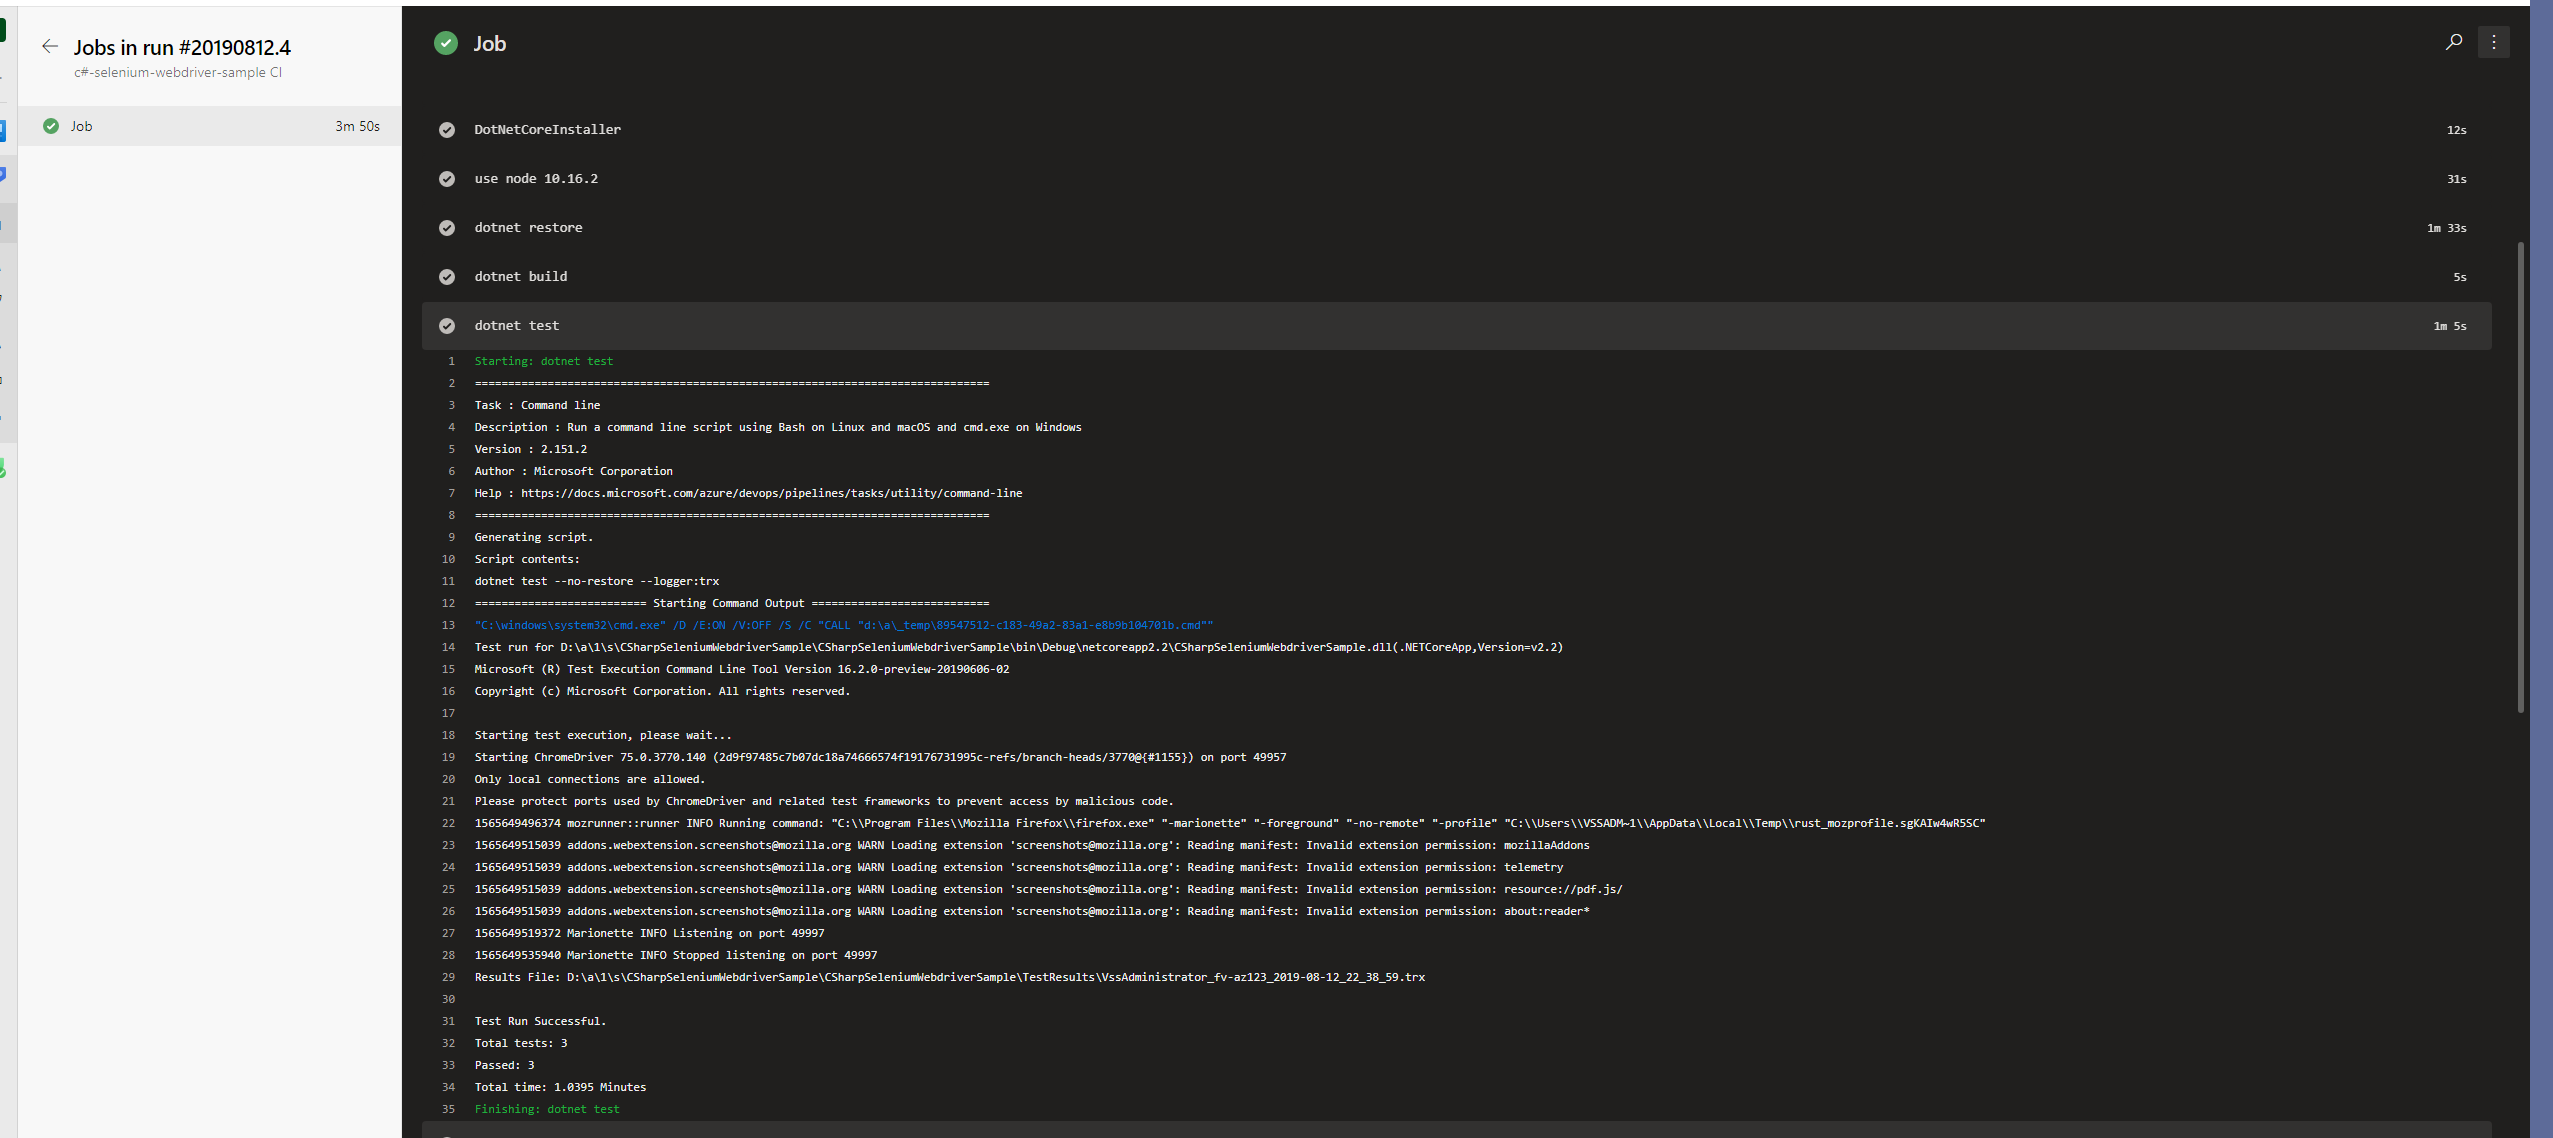
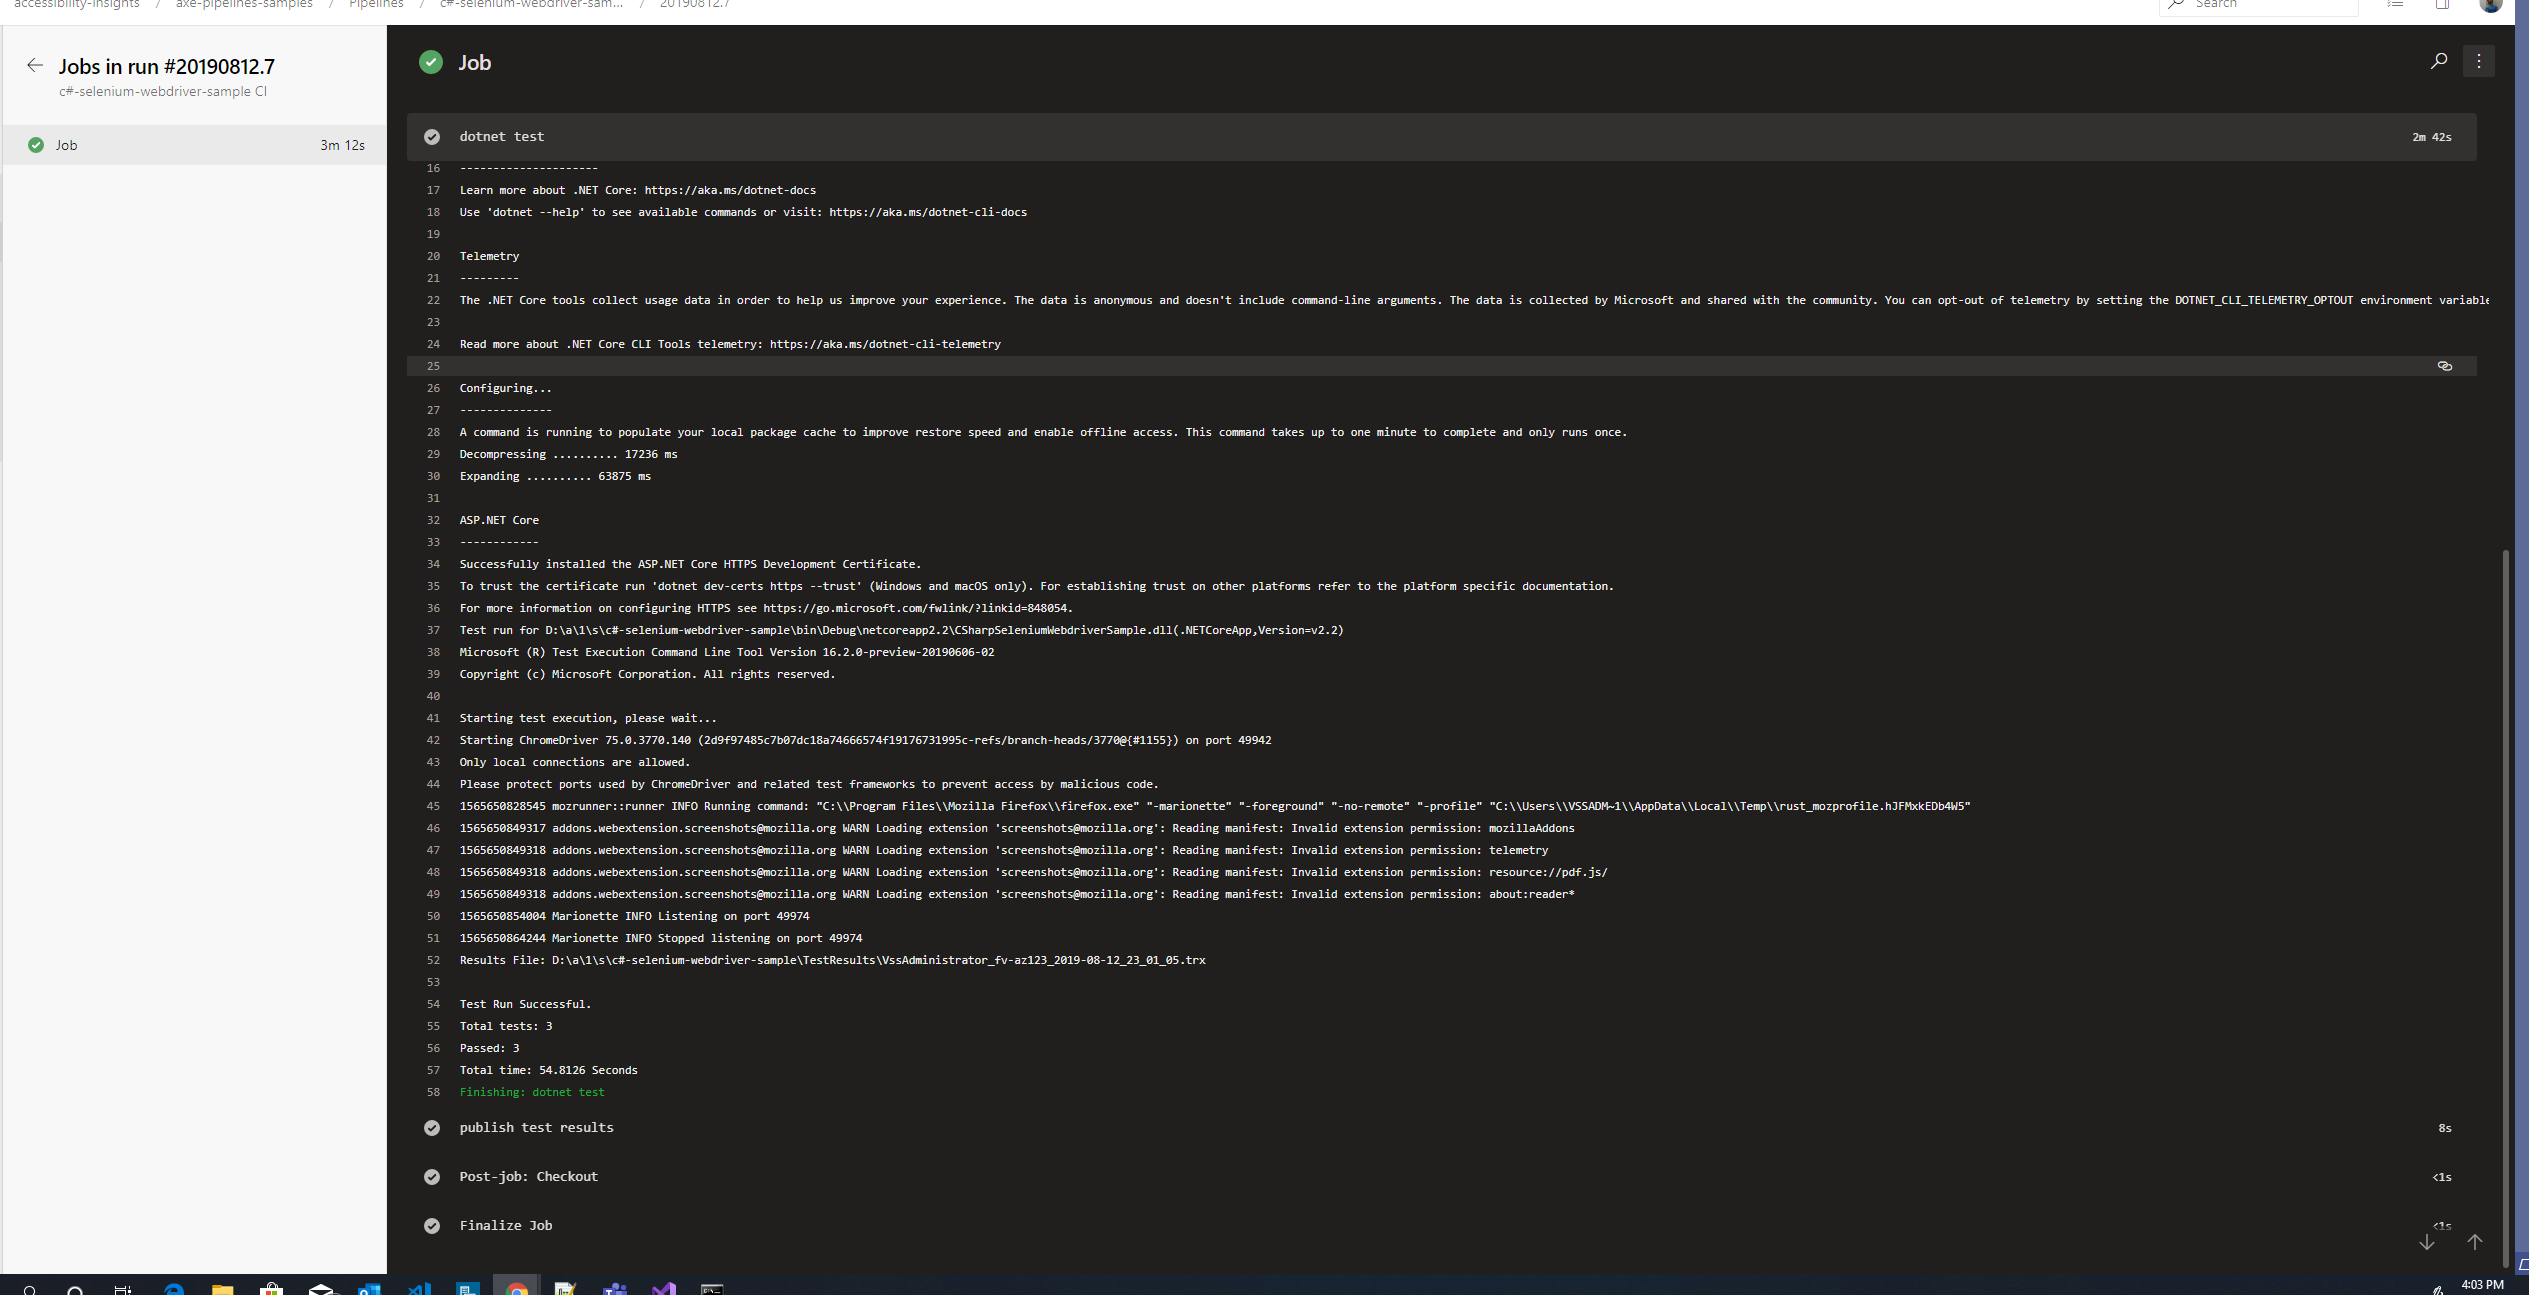
update screenshots

Changed region(s): [[0.0, 0.0, 1.0, 1.0], [0.0, 0.0923, 0.0312, 0.3998], [0.4998, 0.8304, 0.531, 0.8612]]

diff --git a/c#-selenium-webdriver-sample/README.md b/c#-selenium-webdriver-sample/README.md
@@ -31,11 +31,11 @@ Some good places to start reading are:
 -->
 The accessibility tests run as part of the `dotnet test` build step:
 
-[![Screenshot of "dotnet test" build logs in sample build](./Resources/screenshot-logs-tab.png)](https://dev.azure.com/accessibility-insights/axe-pipelines-samples/_build/results?buildId=2324&view=logs&j=12f1170f-54f2-53f3-20dd-22fc7dff55f9)
+[![Screenshot of "dotnet test" build logs in sample build](./Resources/screenshot-logs-tab.png)](https://dev.azure.com/accessibility-insights/axe-pipelines-samples/_build/results?buildId=2332&view=logs&j=12f1170f-54f2-53f3-20dd-22fc7dff55f9)
 
 The test pass/fail results display in the Tests tab of the build logs:
 
-[![Screenshot of Tests tab in sample build](./Resources/screenshot-tests-tab.png)](https://dev.azure.com/accessibility-insights/axe-pipelines-samples/_build/results?buildId=2324&view=ms.vss-test-web.build-test-results-tab&runId=6486&resultId=100000&paneView=debug)
+[![Screenshot of Tests tab in sample build](./Resources/screenshot-tests-tab.png)](https://dev.azure.com/accessibility-insights/axe-pipelines-samples/_build/results?buildId=2332&view=ms.vss-test-web.build-test-results-tab&runId=6504&resultId=100000&paneView=debug)
 
 ## See it in action on your local machine
 
